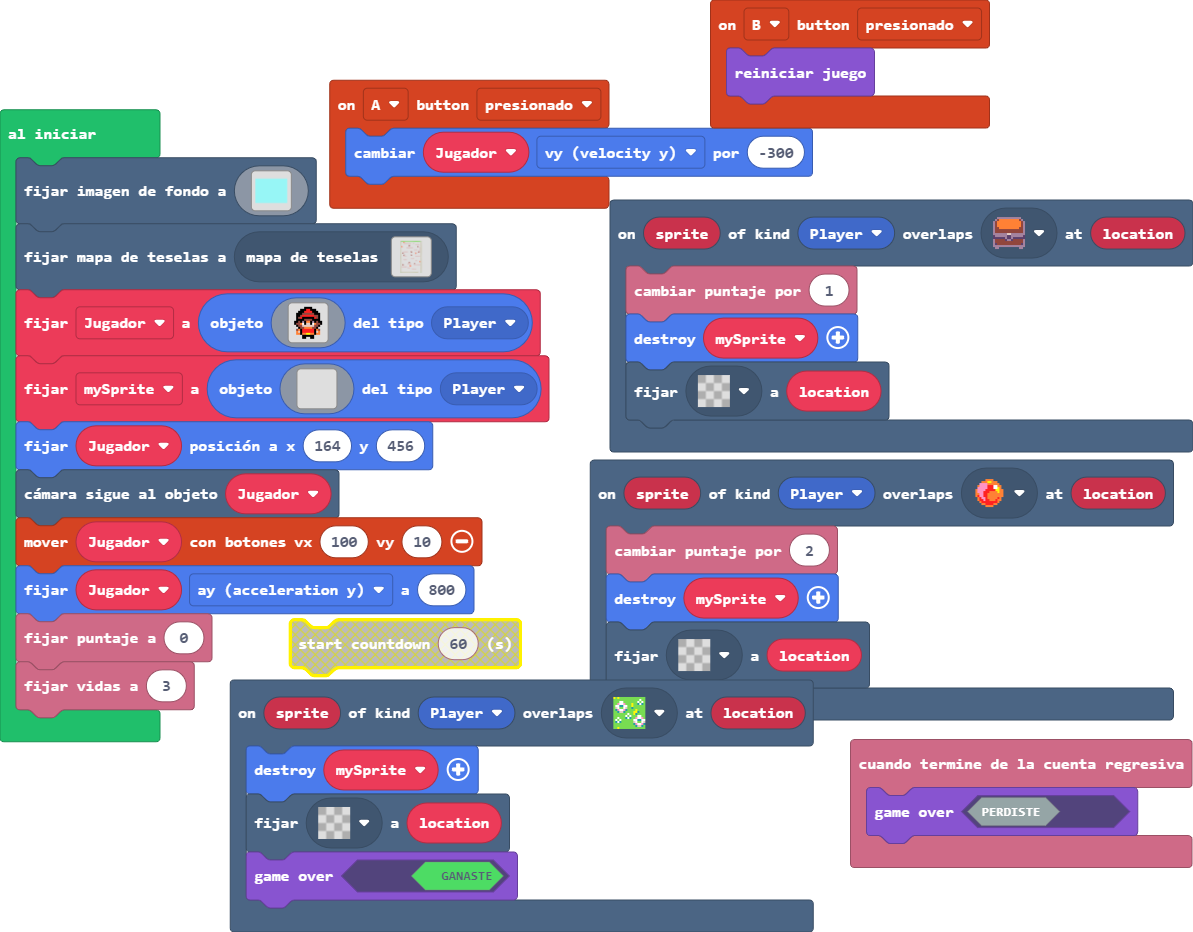
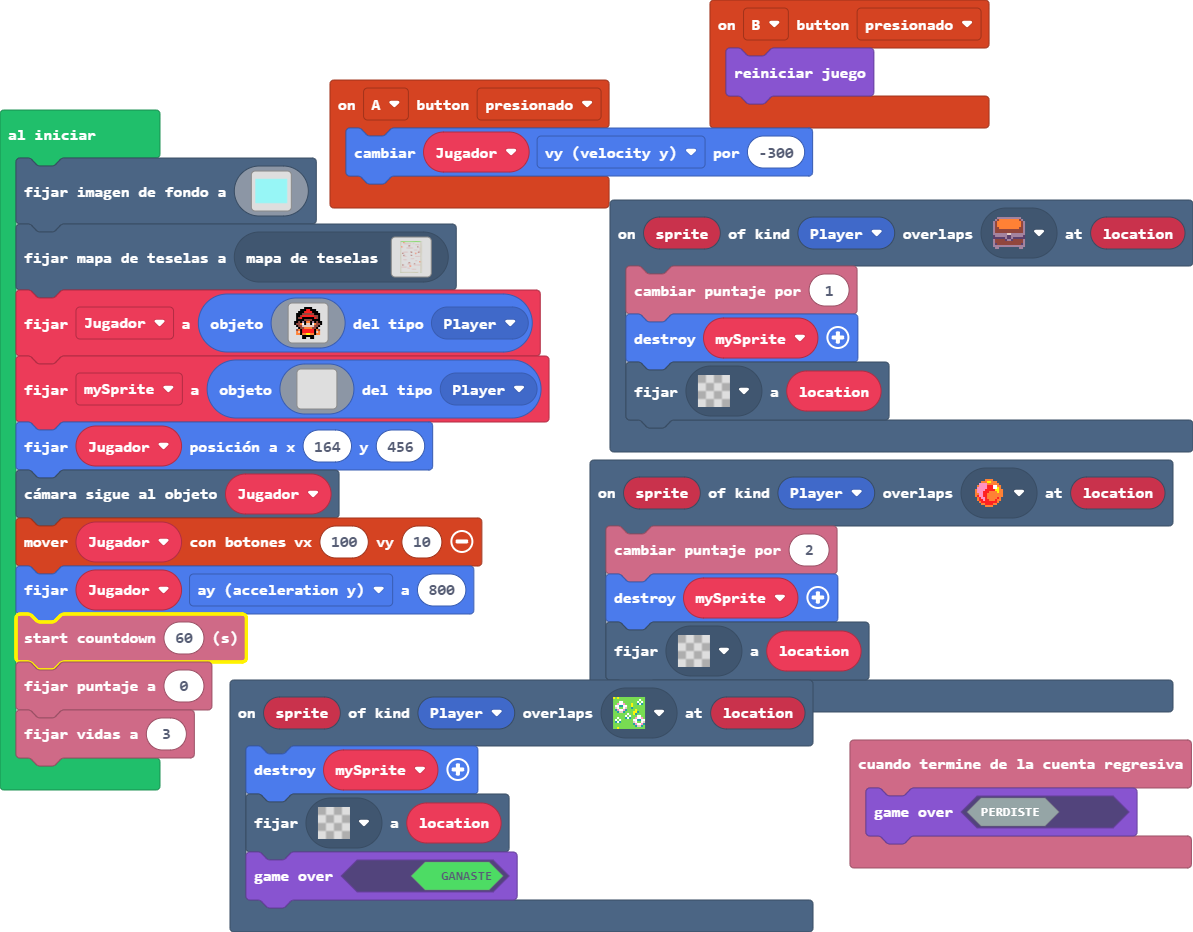
Sumar Tiempo

diff --git a/main.ts b/main.ts
@@ -52,5 +52,6 @@ Jugador.setPosition(164, 456)
 scene.cameraFollowSprite(Jugador)
 controller.moveSprite(Jugador, 100, 10)
 Jugador.ay = 800
+info.startCountdown(120)
 info.setScore(0)
 info.setLife(3)
